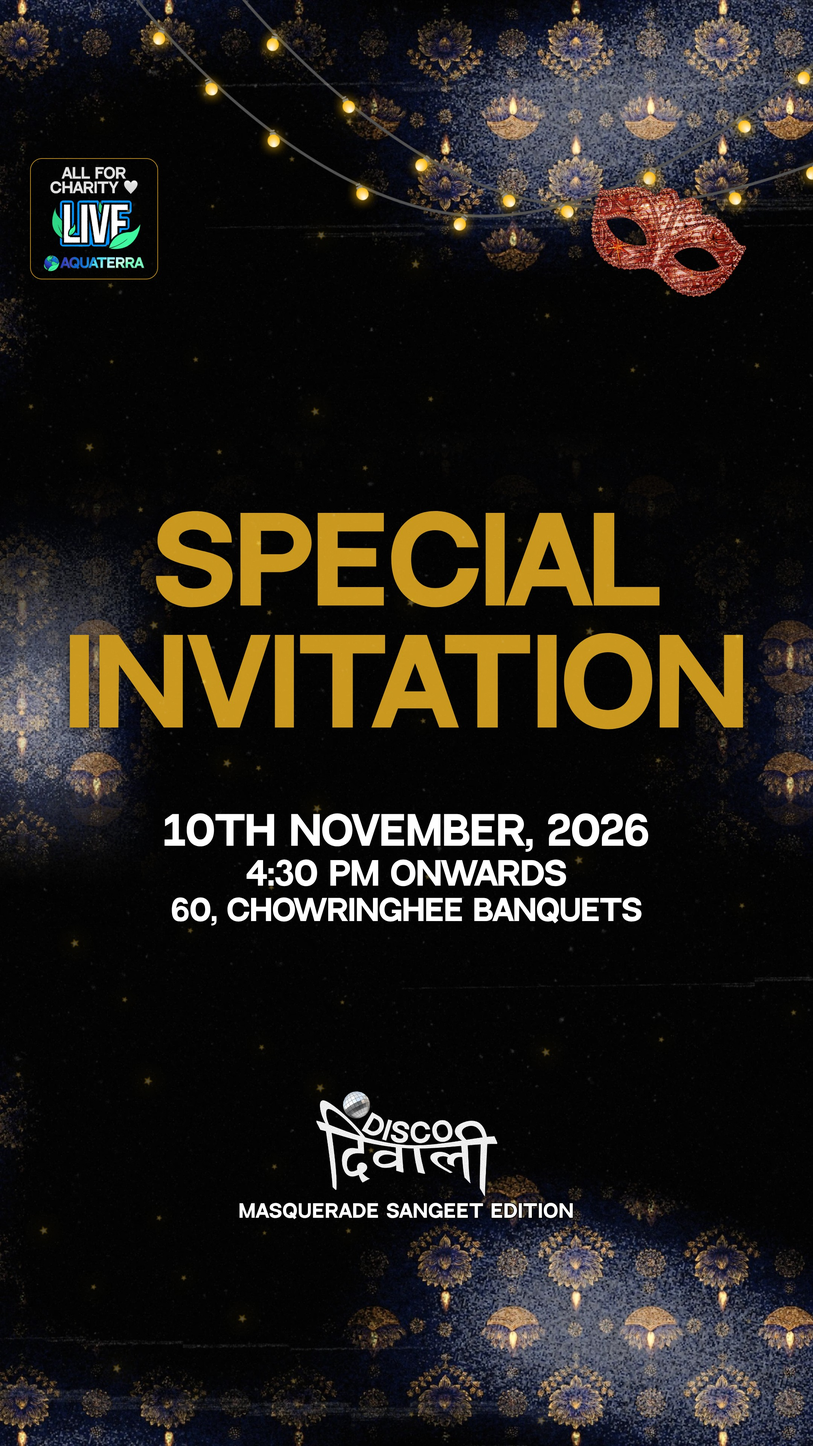
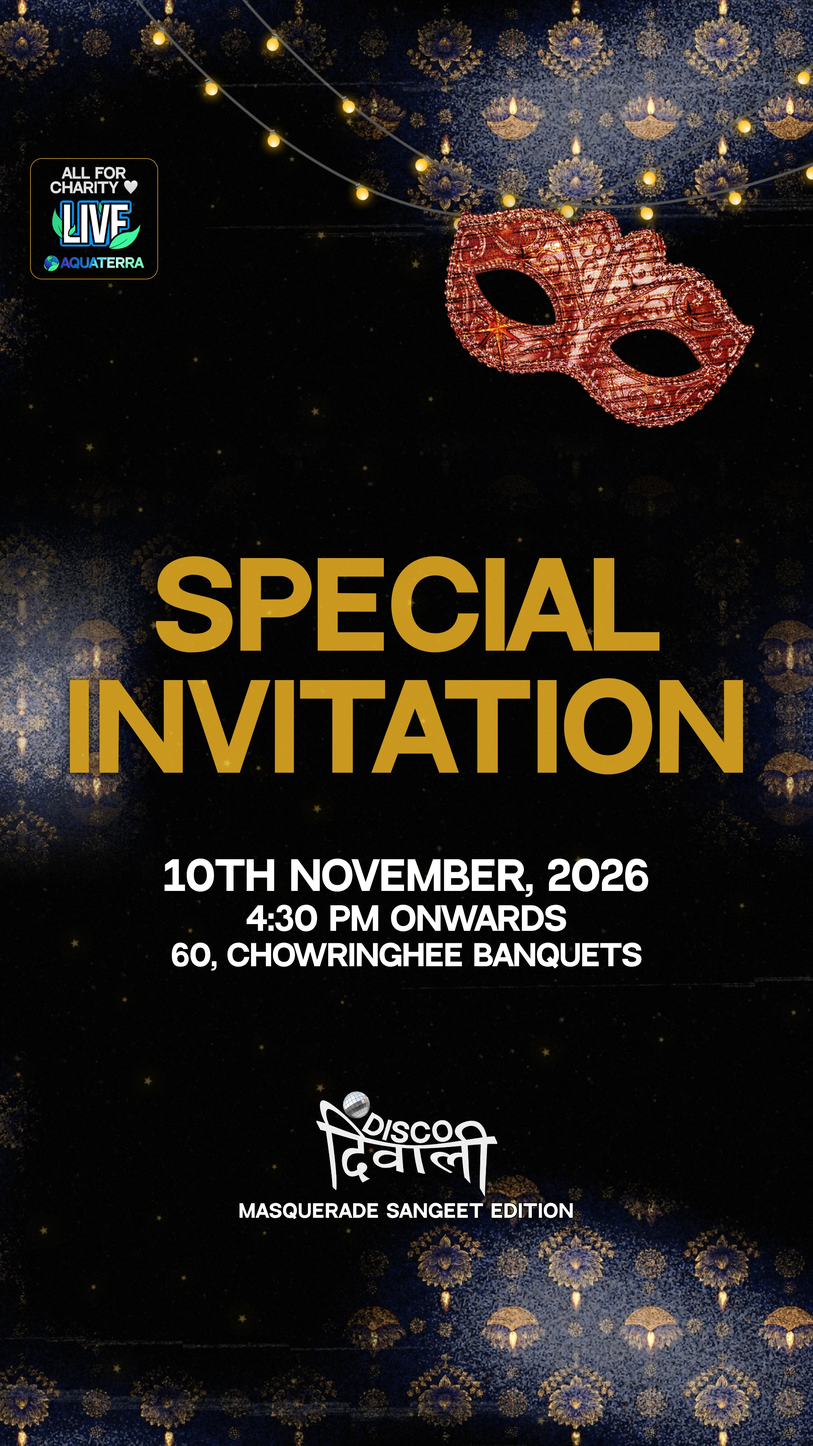
Special invitation poster v8: mask roughly twice the size, kept inside the canvas
Claude-Session: https://claude.ai/code/session_01Hjb3YdETYzUX9KQBuy3LJ5

Changed region(s): [[0.062, 0.3438, 0.9306, 0.6875], [0.5273, 0.125, 0.9306, 0.3125]]

diff --git a/scratchpad/dd_invite2.py b/scratchpad/dd_invite2.py
@@ -36,14 +36,15 @@ async def build(H):
     top = 210 if story else 44
     s.parts.append(f'<img data-tag="badge" src="{dd.uri("live_badge.png")}" style="position:absolute;left:40px;top:{top}px;width:170px;z-index:20">')
     s.els.append(("badge", 40, top, 170, round(170 * 1005 / 1061)))
-    s.mask(760, top + 8, 250, 12)
+    mw = 500 if story else 480
+    s.mask(W - mw - (40 if story else 30), top + (6 if story else 12), mw, 12)
     pw = 1000; px = (W - pw) // 2
     f_inv = await fit("Invitation", pw - 90, 240); f_sp = f_inv       # both lines one size, INVITATION fills the panel width
     pad = 40; gap = 10
     ph = pad + f_sp + gap + f_inv + pad
     info_h = 150 if not story else 175
     gap_pi = 50 if story else 34
-    zone0, zone1 = (440, 1450) if story else (300, 1130)       # between the mask/badge and the footer mark
+    zone0, zone1 = (560, 1450) if story else (470, 1140)       # between the mask/badge and the footer mark
     py = zone0 + max(0, (zone1 - zone0 - (ph + gap_pi + info_h)) // 2)
     print(f"   sizes: special {f_sp}, invitation {f_inv}; panel {ph}px at y={py}")
     y = s.text("invite1", "Special", py + pad, f_sp, color=GOLD, x=px, w=pw)
